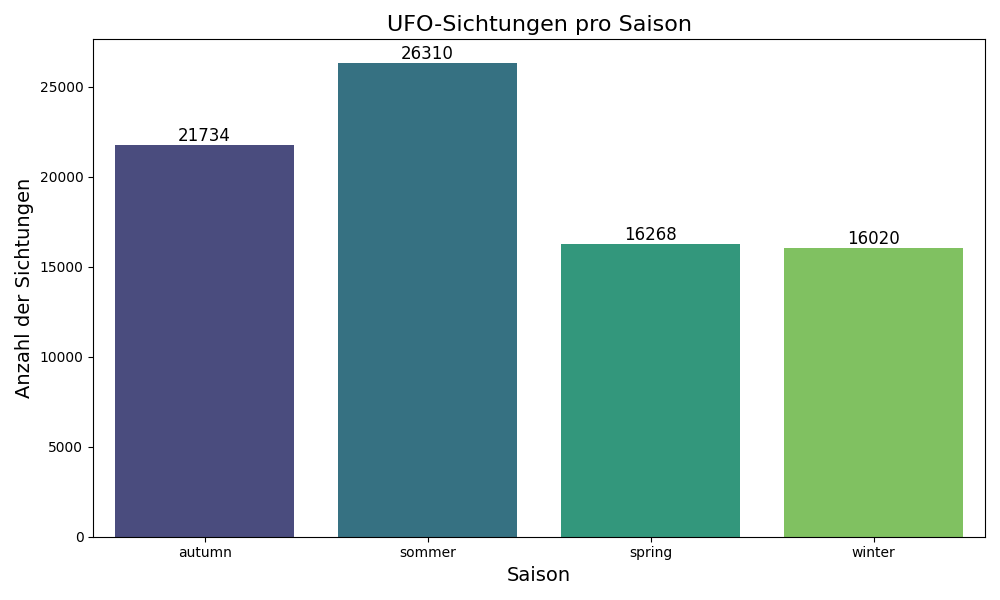
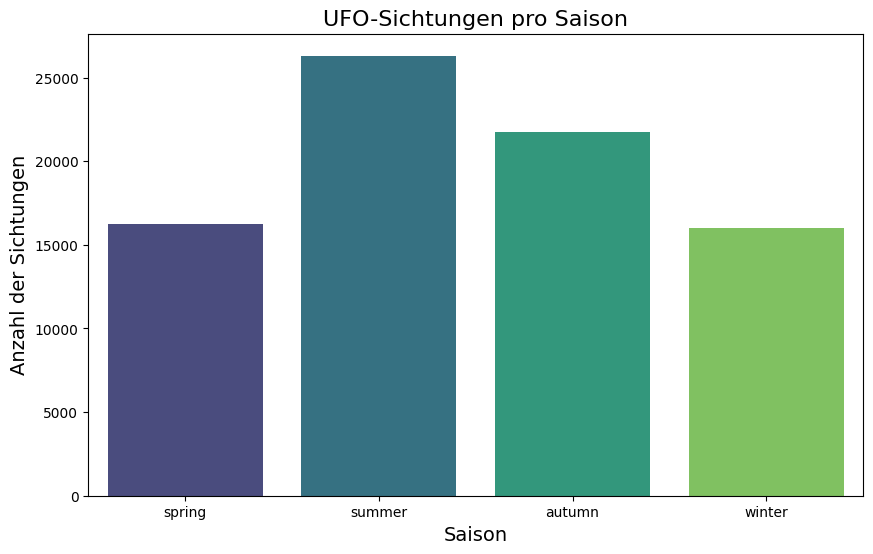
eigenes Skript und png-Zieher überarbeitet

diff --git a/functions/png-test.py b/functions/png-test.py
@@ -3,15 +3,10 @@ from PIL import Image
 import matplotlib.pyplot as plt #für die Darstellung aller Bilder in einem Panel
 
 
-def erstelle_zusammenfassung(ordner_pfad, ausgabe_dateiname="zusammenfassung.png"):
-    """
-    Erstellt eine Zusammenfassungs-Grafik aus allen PNG-Bildern in einem Ordner.
+def erstelle_zusammenfassung(quell_ordner, ziel_ordner, ausgabe_dateiname="zusammenfassung.png"):
 
-    :param ordner_pfad: Pfad zum Ordner mit den Bildern
-    :param ausgabe_dateiname: Name der Ausgabedatei (Standard: "zusammenfassung.png")
-    """
     # Alle Bilder in eine Liste (Suche nach ".png")
-    grafiken_liste = [f for f in os.listdir(ordner_pfad) if f.endswith('.png')]
+    grafiken_liste = [f for f in os.listdir(quell_ordner) if f.endswith('.png')]
 
     # Anzahl der Bilder berechnen
     anzahl_bilder = len(grafiken_liste)
@@ -27,7 +22,7 @@ def erstelle_zusammenfassung(ordner_pfad, ausgabe_dateiname="zusammenfassung.png
     # Bilder in den Subplots anzeigen
     for i, datei in enumerate(grafiken_liste):
         # Bild laden
-        bild_pfad = os.path.join(ordner_pfad, datei)
+        bild_pfad = os.path.join(quell_ordner, datei)
         bild = Image.open(bild_pfad)
 
         # Subplot auswählen
@@ -50,16 +45,18 @@ def erstelle_zusammenfassung(ordner_pfad, ausgabe_dateiname="zusammenfassung.png
 
     # Layout anpassen und Grafik speichern
     plt.tight_layout()
-    plt.savefig(os.path.join(ordner_pfad, ausgabe_dateiname))
+    plt.savefig(os.path.join(ziel_ordner, ausgabe_dateiname))
     plt.close()  # Schließe das Figure-Objekt, um Speicher freizugeben
 
 
 
-
+"""
 # Beispielaufruf der Funktion
-grafiken_ordner = os.path.join(os.path.dirname(__file__), 'grafiken')
-erstelle_zusammenfassung(grafiken_ordner)
+quell_ordner = os.path.join(os.path.dirname(__file__), 'grafiken')
+ziel_ordner = os.path.join(os.path.dirname(__file__), 'zusammenfassungen')
+erstelle_zusammenfassung(quell_ordner, ziel_ordner)
 
+"""
 
 
 #### ORIGINALCODE #####
@@ -104,5 +101,3 @@ for i in range(anzahl_bilder, zeilen * spalten):
 plt.tight_layout()
 #plt.show()
 plt.savefig(os.path.join(grafiken_ordner, "zusammenfassung"))"""
-
-#pfad bild finden, pfad bild hinspeichern -> sep pfadvariablen

diff --git a/scripts/datetime_analysis/analyse_zeiträume.py b/scripts/datetime_analysis/analyse_zeiträume.py
@@ -34,7 +34,6 @@ def clean_datetime_column(df, datetime_column="datetime"):
 datetime_clean = clean_datetime_column(ufo_sightings_df)
 
 ################################################################################################################
-
 #   JAHRE
 
 # nach Jahren filtern
@@ -109,13 +108,19 @@ def get_season(month):
     elif month in [3, 4, 5]:
         return "spring"
     elif month in [6, 7, 8]:
-        return "sommer"
+        return "summer"
     else:
         return "autumn"  
+    
+# Sortierung
+seasons_sorted = ["spring", "summer", "autumn", "winter"]
 
 # Monat extrahieren und Jahreszeit zuweisen
 ufo_sightings_df["season"] = ufo_sightings_df["months"].map(get_season)
 seasons_df = ufo_sightings_df["season"]
+
+# Erstelle eine kategorische Spalte mit der gewünschten Sortierung
+ufo_sightings_df["season"] = pd.Categorical(ufo_sightings_df["season"], categories=seasons_sorted, ordered=True)
 
 # Sichtungen pro Jahreszeit 
 sightings_per_season = ufo_sightings_df.groupby("season").size().reset_index(name="sightings")
@@ -226,6 +231,13 @@ ufo_sightings_df["zeitkategorie"] = np.select(conditions, labels, default="Unbek
 ufo_sightings_df["hour"] = datetime_clean.dt.hour
 ufo_sightings_df["weekday"] = datetime_clean.dt.day_name()  # Name des Wochentags
 
+# Konvertiere die Wochentage in eine kategorische Spalte mit der gewünschten Reihenfolge
+ufo_sightings_df["weekday"] = pd.Categorical(
+    ufo_sightings_df["weekday"], 
+    categories=weekday_names, 
+    ordered=True
+)
+
 # Pivot-Tabelle für Heatmap
 heatmap_data = ufo_sightings_df.pivot_table(
     index="zeitkategorie",         
@@ -241,7 +253,7 @@ heatmap_data = heatmap_data[weekday_names]"""
 
 # Grafik Tageszeiten
 plt.figure(figsize=(12, 8))
-sns.heatmap(heatmap_data, cmap="YlOrRd", annot=True, fmt="d", linewidths=0.5)
+sns.heatmap(heatmap_data, cmap="viridis", annot=True, fmt="d", linewidths=0.5)
 plt.title("UFO-Sichtungen nach Stunde und Wochentag", fontsize=16)
 plt.xlabel("Wochentag", fontsize=14)
 plt.ylabel("Stunde des Tages", fontsize=14)
